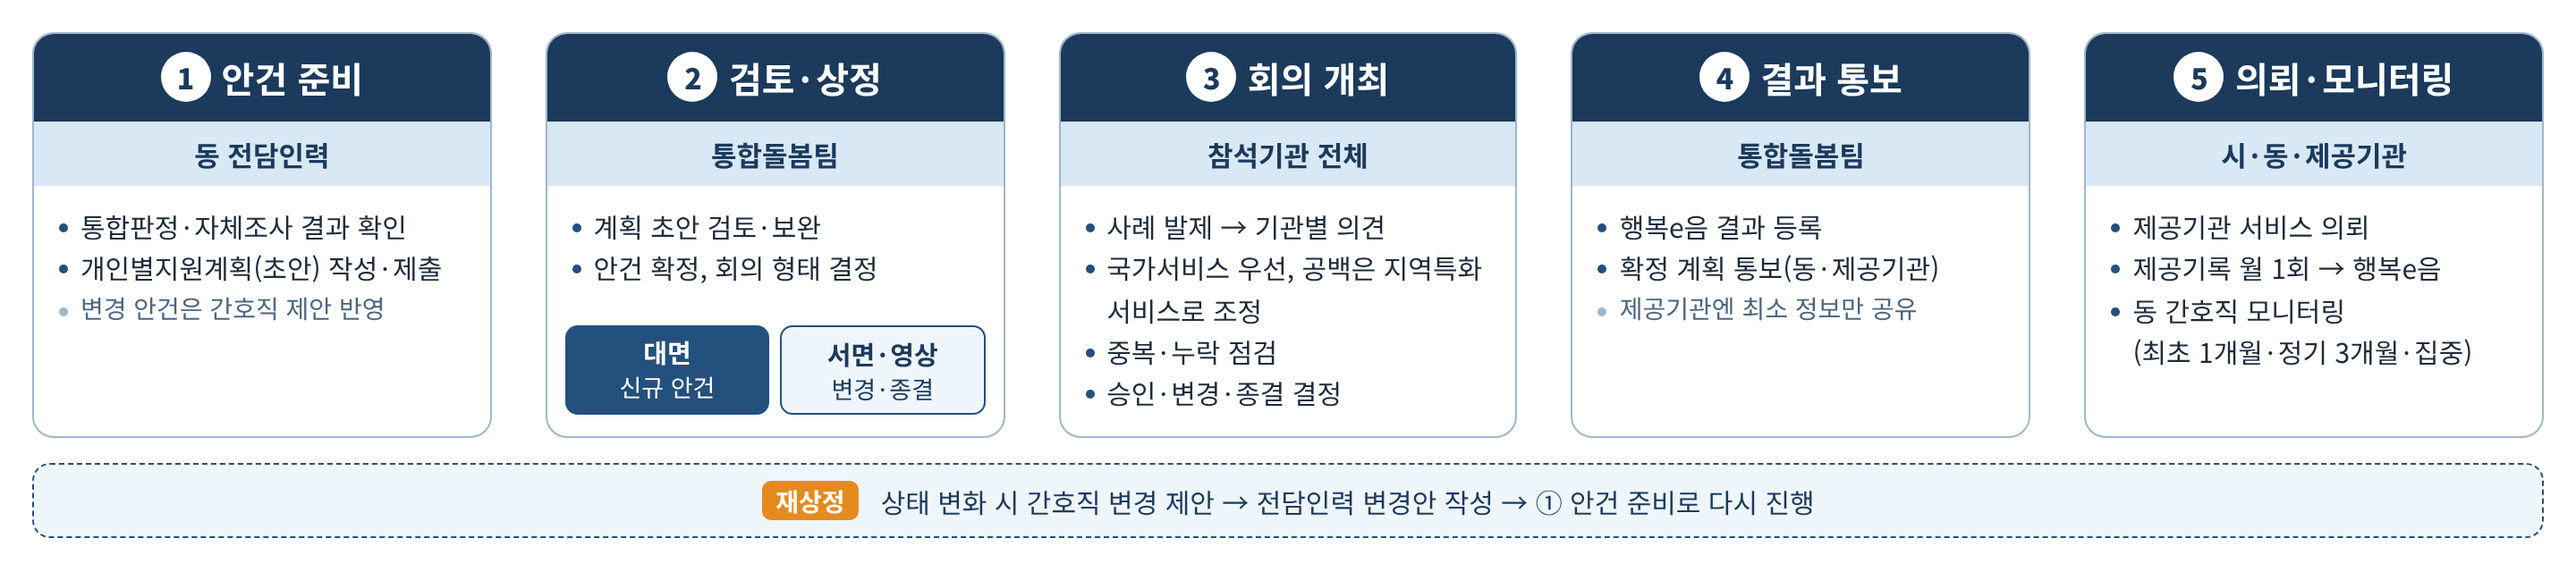
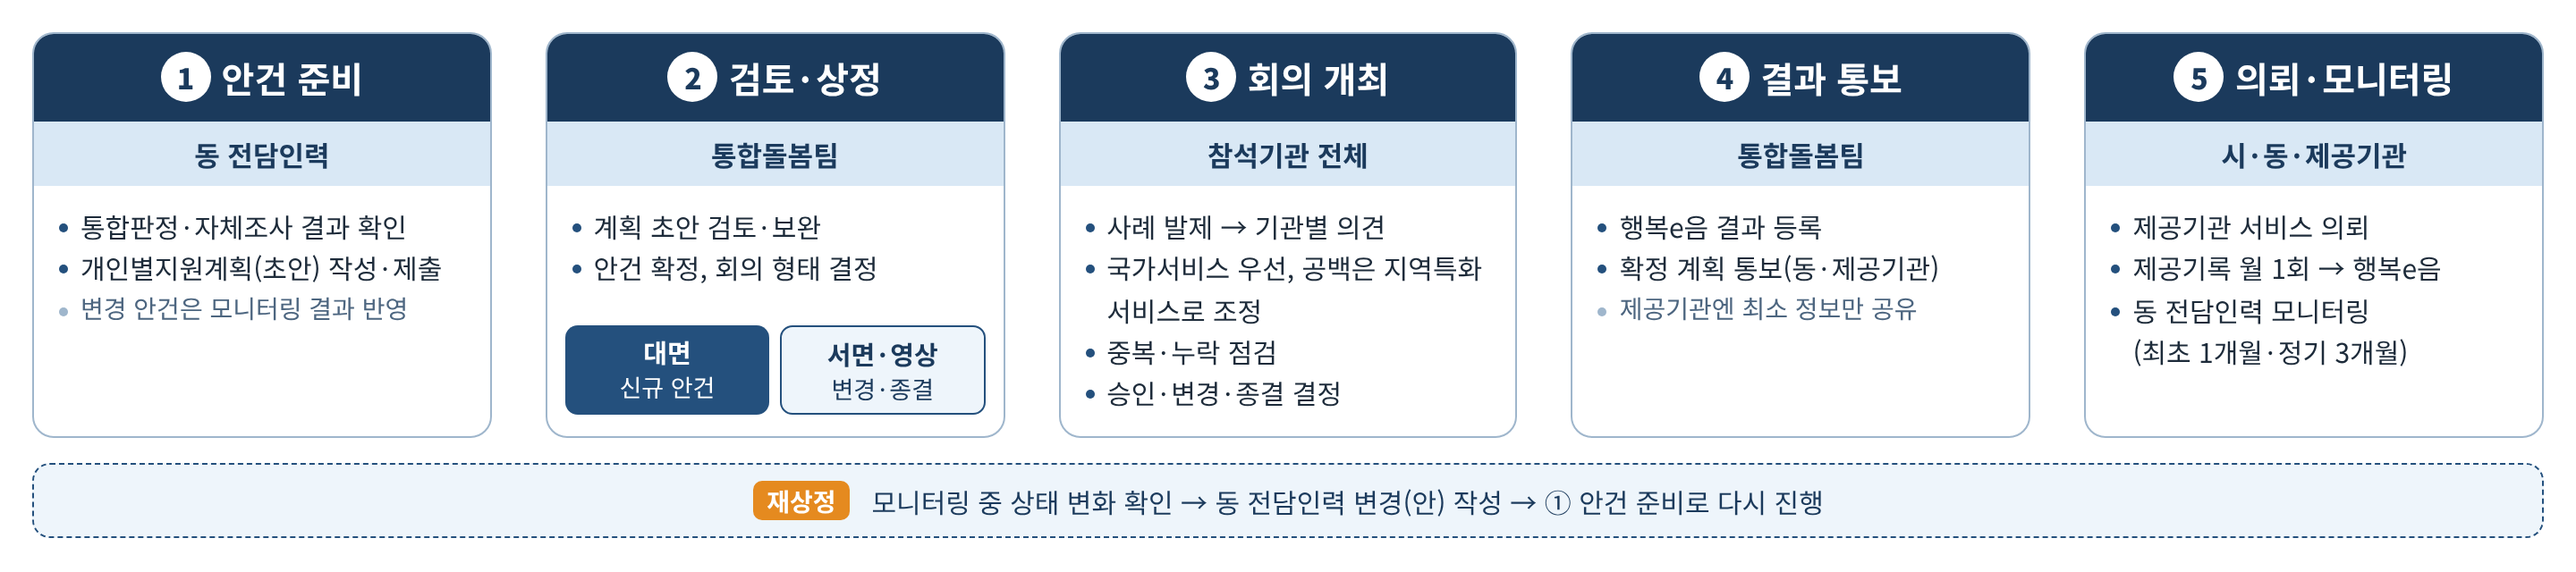
Update meeting procedure figure: monitoring by dong full-time staff
Claude-Session: https://claude.ai/code/session_01Rws36siuxpZ2CZV6pJjBDn

diff --git a/docs/uiwang-2027-plan/figures/src/meeting.html b/docs/uiwang-2027-plan/figures/src/meeting.html
@@ -26,7 +26,7 @@ li.s:before{background:#9fb6cc}
 </style></head><body>
 <div class="flow">
   <div class="card"><div class="top"><span class="n">1</span>안건 준비</div><div class="who">동 전담인력</div>
-    <ul><li>통합판정·자체조사 결과 확인</li><li>개인별지원계획(초안) 작성·제출</li><li class="s">변경 안건은 간호직 제안 반영</li></ul></div>
+    <ul><li>통합판정·자체조사 결과 확인</li><li>개인별지원계획(초안) 작성·제출</li><li class="s">변경 안건은 모니터링 결과 반영</li></ul></div>
   <div class="card"><div class="top"><span class="n">2</span>검토·상정</div><div class="who">통합돌봄팀</div>
     <ul><li>계획 초안 검토·보완</li><li>안건 확정, 회의 형태 결정</li></ul>
     <div class="mode"><div class="a"><b>대면</b>신규 안건</div><div class="b"><b>서면·영상</b>변경·종결</div></div></div>
@@ -35,7 +35,7 @@ li.s:before{background:#9fb6cc}
   <div class="card"><div class="top"><span class="n">4</span>결과 통보</div><div class="who">통합돌봄팀</div>
     <ul><li>행복e음 결과 등록</li><li>확정 계획 통보(동·제공기관)</li><li class="s">제공기관엔 최소 정보만 공유</li></ul></div>
   <div class="card"><div class="top"><span class="n">5</span>의뢰·모니터링</div><div class="who">시·동·제공기관</div>
-    <ul><li>제공기관 서비스 의뢰</li><li>제공기록 월 1회 → 행복e음</li><li>동 간호직 모니터링<br>(최초 1개월·정기 3개월·집중)</li></ul></div>
+    <ul><li>제공기관 서비스 의뢰</li><li>제공기록 월 1회 → 행복e음</li><li>동 전담인력 모니터링<br>(최초 1개월·정기 3개월)</li></ul></div>
 </div>
-<div class="loop"><b>재상정</b> 상태 변화 시 간호직 변경 제안 → 전담인력 변경안 작성 → ① 안건 준비로 다시 진행</div>
+<div class="loop"><b>재상정</b> 모니터링 중 상태 변화 확인 → 동 전담인력 변경(안) 작성 → ① 안건 준비로 다시 진행</div>
 </body></html>

diff --git a/docs/uiwang-2027-plan/figures/src/shot.js b/docs/uiwang-2027-plan/figures/src/shot.js
@@ -1,5 +1,5 @@
 const {chromium}=require('playwright');
-(async()=>{const b=await chromium.launch();const p=await b.newPage({viewport:{width:1200,height:900},deviceScaleFactor:2});
+(async()=>{const b=await chromium.launch();const p=await b.newPage({viewport:{width:1500,height:900},deviceScaleFactor:2});
 await p.goto('file://'+process.argv[2],{waitUntil:'networkidle'}).catch(()=>{});
 await p.waitForTimeout(1500);
 const f=await p.evaluate(()=>document.fonts.check('16px "Noto Sans KR"'));console.log('noto',f);
